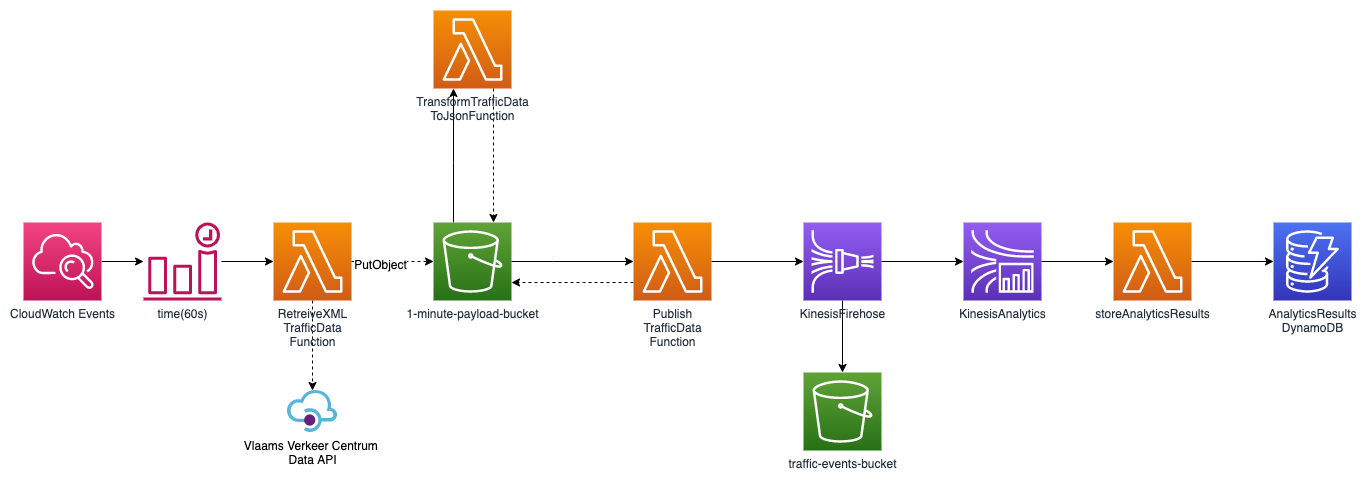
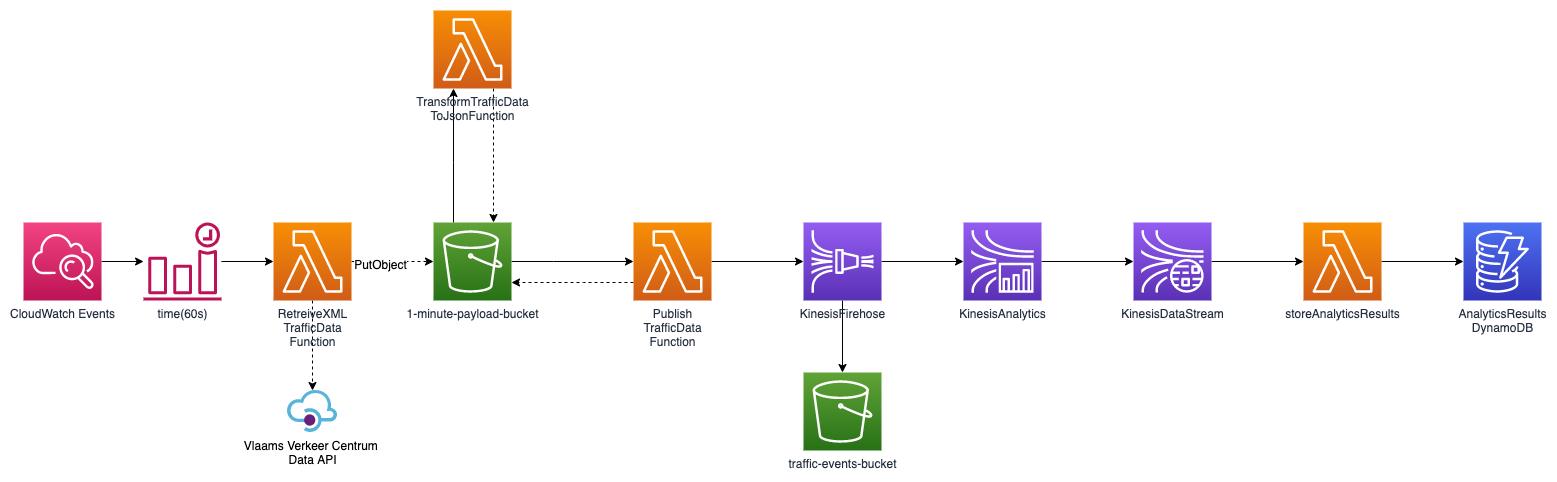
firehose to kinesis datastream to lambda

diff --git a/src/ProcessAnalyticsResults/handler.py b/src/ProcessAnalyticsResults/handler.py
@@ -1,25 +1,42 @@
 from __future__ import print_function
 import boto3
 import base64
-from json import loads
+import os
+import json
 
-# table = boto3.resource('dynamodb').Table("trj_info")
+
+table = boto3.resource('dynamodb').Table(os.environ["TABLE_NAME"])
 
 
 def handle(event, context):
-    payload = event['records']
-    output = []
-    success = 0
-    failure = 0
-
     print("START----------------------------------------------START")
 
-    for record in payload:
-        payload = base64.b64decode(record['data'])
-        print(payload)
-
-        item = loads(payload)
-
-        output.append({'recordId': record['recordId'], 'result': 'Ok'})
+    print(event)
+    for record in event['Records']:
+        try:
+            print(record)
+            payload = base64.b64decode(record['kinesis']['data'])
+            data_item = json.loads(payload)
+            speed_aggr_item = create_item(data_item)
+            print('Saving item')
+            table.put_item(Item=speed_aggr_item)
+            print('Item successfully saved')
+        except Exception as e:
+            print(e)
+            print("failure")
 
     print("END----------------------------------------------END")
+
+
+def create_item(data_item):
+    # outputType_timestamp = data_item.get('outputType') + '_' + timestamp
+    speed_aggr_item = {
+        'uniqueId': str(data_item.get('uniqueId')),
+        'recordTimestamp': str(data_item.get('recordTimestamp')),
+        'outputType': data_item.get('outputType'),
+        'currentSpeed': data_item.get('currentSpeed'),
+        'previousSpeed': data_item.get('previousSpeed'),
+        'speedDiffIndicator': data_item.get('speedDiffIndicator'),
+        'bezettingsgraad': data_item.get('bezettingsgraad'),
+    }
+    return speed_aggr_item

diff --git a/src/PublishTrafficData/handler.py b/src/PublishTrafficData/handler.py
@@ -1,6 +1,7 @@
 import json
 import boto3
 import os
+import dateutil.parser as dp
 import logging
 from collections.abc import MutableMapping
 
@@ -45,6 +46,15 @@ def transform_meetpunten_to_events(meetpunten):
     return events
 
 
+def update_event_time(event):
+    current = str(event["tijd_waarneming"])
+    new_event = event.copy()
+    parsed_t = dp.parse(current)
+    t_in_seconds = parsed_t.strftime('%s')
+    new_event["tijd_waarneming"] = str(t_in_seconds)
+    return new_event
+
+
 def transform_meetpunt_to_event(meetpunt):
     event = meetpunt
     event = clean_keys(event)
@@ -55,7 +65,8 @@ def transform_meetpunt_to_event(meetpunt):
     rekendata_flattened = flatten({"rekendata": event["rekendata"]})
     event.pop("rekendata")
     event.update(rekendata_flattened)
-    return event
+    updated_event = update_event_time(event)
+    return updated_event
 
 
 def generate_meetdata_dict(meetdata):

diff --git a/scripts/push-straight-to-kinesis.py b/scripts/push-straight-to-kinesis.py
@@ -7,11 +7,12 @@ firehose_client = boto3.client('firehose')
 KINESIS_FIREHOSE_NAME = 'sls-data-pipelines-dev-DeliveryStream-ME98UYAFP4R0'
 
 car_speeds = [120] * 10 \
-             + list(reversed(range(100, 120, 5))) \
-             + list(reversed(range(40, 100, 10))) \
-             + list(reversed(range(10, 40))) \
-             + list(range(10, 50, 10)) \
-             + list(range(50, 110, 5))
+             + list(range(120, 100, -5)) \
+             + list(range(100, 40, -10)) \
+             + list(range(40, 10, -2))
+# + list(reversed(range(10, 40))) \
+# + list(range(10, 50, 10)) \
+# + list(range(50, 110, 5))
 
 
 def pretty_output(response):
@@ -28,6 +29,7 @@ def update_meetpunt(meetpunt, car_speed):
 
 
 def put_record(client, delivery_stream_name, meetpunt):
+    print(json.dumps(meetpunt))
     response = client.put_record(
         DeliveryStreamName=delivery_stream_name,
         Record={

diff --git a/README.md b/README.md
@@ -82,3 +82,17 @@ Deze gegevens worden door AWV en het verkeerscentrum niet meer gebruikt.
 * Voertuigklasse 3 = Bestelwagens = voertuigen met geschatte lengte tussen 4,90m en 6,90m 
 * Voertuigklasse 4 = Ongelede vrachtwagens = voertuigen metvgeschatte lengte tussen 6,90m en 12,00m bv.:Vrachtwagen of trekker 
 * Voertuigklasse 5 = Gelede vrachtwagens of bussen= voertuigen met geschatte lengte langer dan 12,00m bv.: vrachtwagen+aanhangwagen, trekker+aanhangwagen of bus
+
+## Todo
+* add stream and pump (also towards output) for traffic jam alert
+* trace all / or multiple filtered amount of locations
+* deal with -1
+* check if the results are valid
+* add static list with location to match in analytics
+* account for speed is 252
+* save aggregation in dynamodb
+
+* quality check
+* aggregate right
+* save
+* send to kinesis
